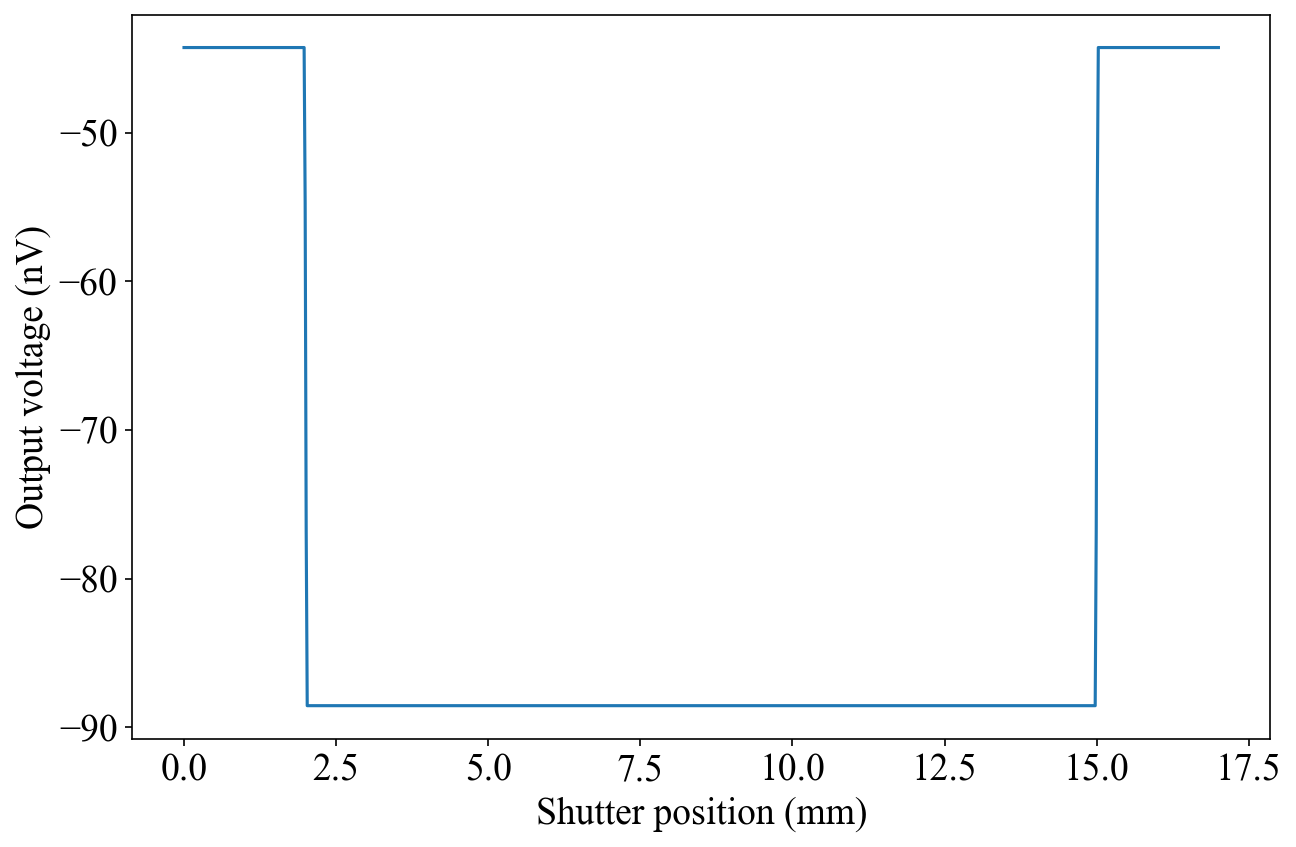
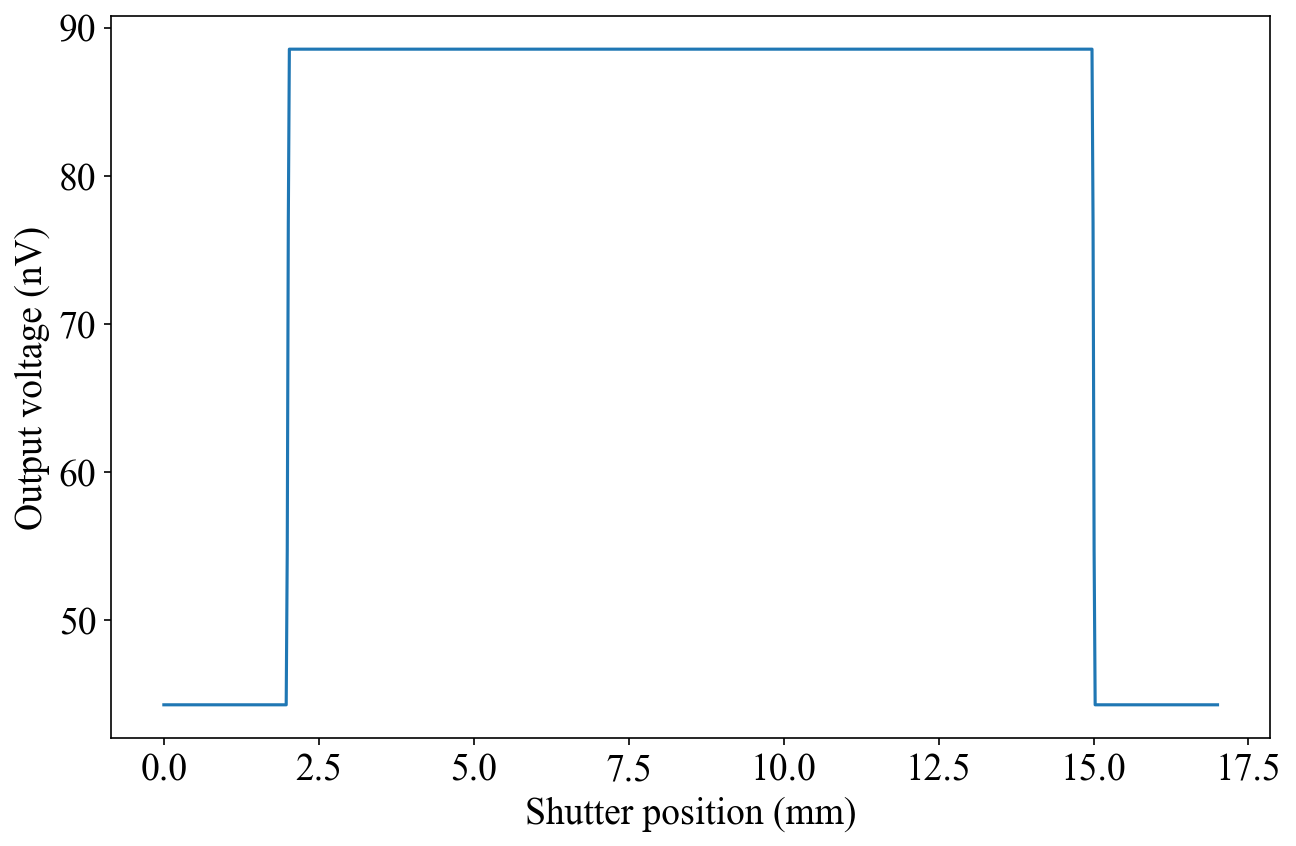
analytical fixed

diff --git a/project1/analytical.py b/project1/analytical.py
@@ -11,23 +11,21 @@ plt.rcParams["font.size"] = 18
 
 # Parameters
 eps0 = 8.8541878128e-12
-E0 = 100.0  # V/m
-Rf = 1e6  # ohm
-v = 1e-3  # m/s
-w = 50e-3  # plate width perpendicular to the motion (m)
-L = 15e-3  # plate length along the motion (m)
-gap = 2e-3  # gap between the plates (m)
+E0 = 100.0  
+Rf = 1e6  
+v = 1e-3  
+w = 50e-3  # plate width 
+L = 15e-3  # plate length 
+gap = 2e-3  # gap between the plates
 
 # Shutter position
 s = np.linspace(0, L + gap, 1000)
 
-# Exposed area of each plate
-# Plate 1 is uncovered as the shutter leaves it (s from 0 to L)
+# Exposed area 
 a1 = w * np.clip(s, 0, L)
-# Plate 2 is covered once the shutter's right edge passes it 
 a2 = w * (L - np.clip(s - gap, 0, L))
 
-# Induced charge on each plate
+# Induced charge 
 q1 = -eps0 * E0 * a1
 q2 = -eps0 * E0 * a2
 
@@ -36,12 +34,12 @@ i1 = -v * np.gradient(q1, s)
 i2 = -v * np.gradient(q2, s)
 
 # Differential transimpedance amplifier
-V_out = -Rf * (i1 - i2)
+V_out = Rf * (i1 - i2)
 
 
 # Plot
-fig, ax = plt.subplots(figsize=(9, 6))
-ax.plot(s * 1e3, V_out * 1e9)
+fig, ax = plt.subplots(figsize=(8, 6))
+ax.plot(s * 1e3, V_out * 1e9, lw=2)
 ax.set_xlabel("Shutter position (mm)")
 ax.set_ylabel("Output voltage (nV)")
 fig.tight_layout()
